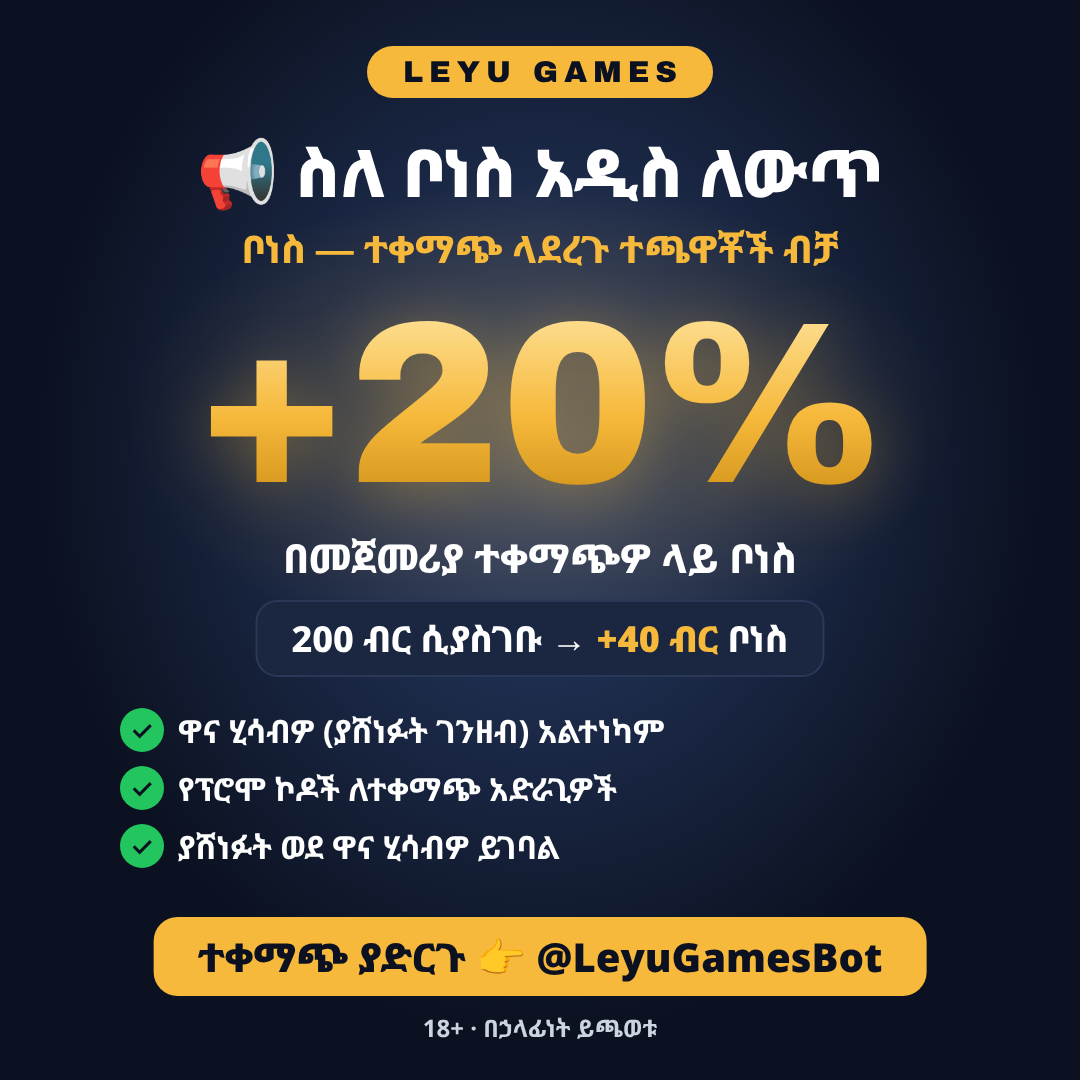
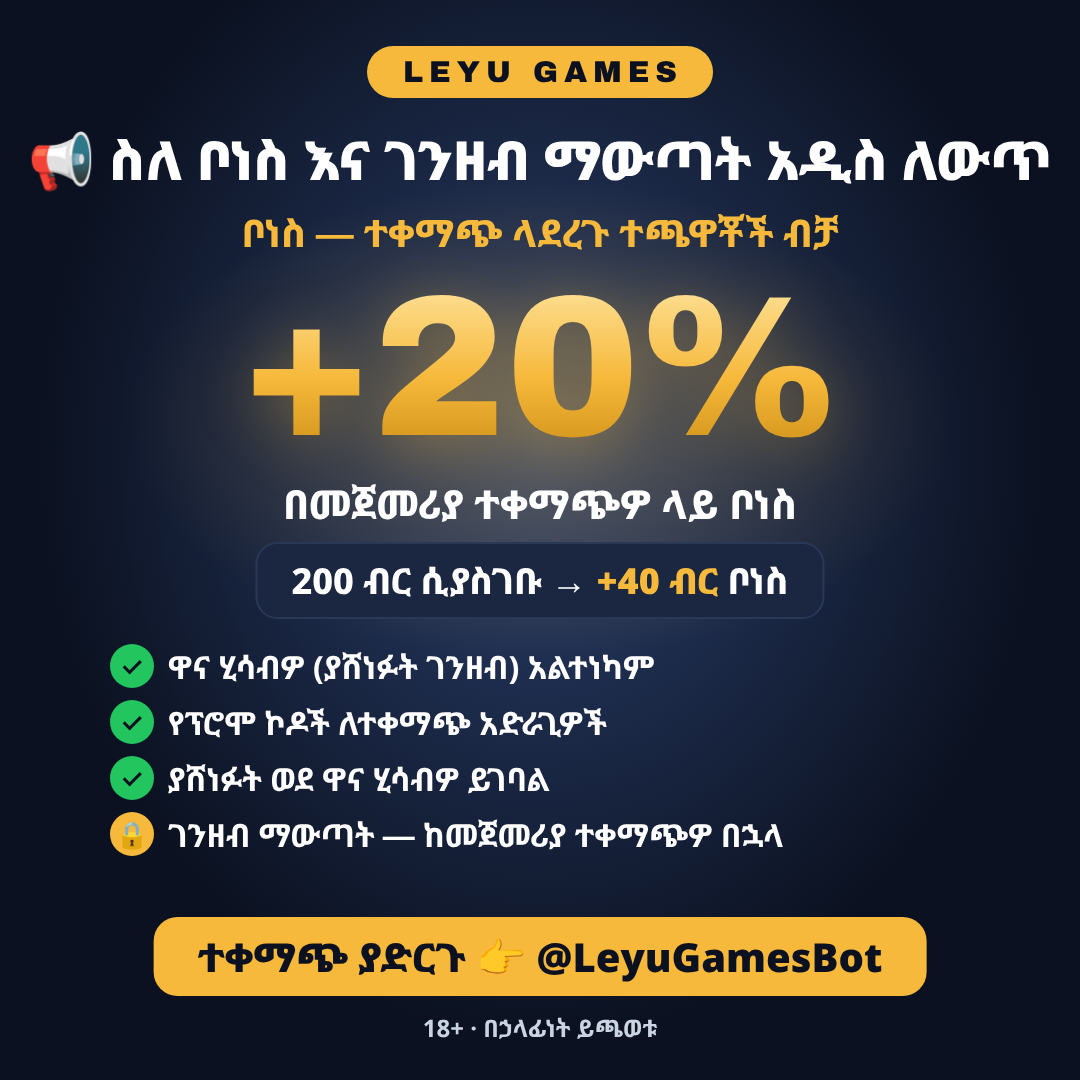
Bonus rule image: add the withdrawal rule
Claude-Session: https://claude.ai/code/session_01Nu2BzcyXdDo5pV38RCPQCQ

Changed region(s): [[0.1833, 0.275, 0.825, 0.55], [0.0917, 0.5806, 0.7333, 0.825], [0.0306, 0.1222, 0.9778, 0.2444]]

diff --git a/brand/promo/bonus-rule.html b/brand/promo/bonus-rule.html
@@ -6,13 +6,13 @@
 body{width:1080px;height:1080px;overflow:hidden;font-family:Ethi,sans-serif;color:#fff;position:relative;text-align:center;background:radial-gradient(ellipse at 50% 42%,#2a3f6b 0,#0b1120 66%)}
 .glow{position:absolute;left:50%;top:420px;width:900px;height:520px;transform:translate(-50%,-50%);background:radial-gradient(ellipse,#f6b93b44,transparent 65%)}
 .brand{position:absolute;top:46px;left:50%;transform:translateX(-50%);background:#f6b93b;color:#0b1120;font-family:Archivo;font-size:30px;letter-spacing:6px;padding:10px 30px 10px 36px;border-radius:40px}
-.title{position:absolute;top:126px;left:0;right:0;font-size:66px;font-weight:900}
-.sub{position:absolute;top:222px;left:0;right:0;font-size:38px;font-weight:800;color:#f6b93b}
-.big{position:absolute;top:290px;left:0;right:0;font-family:Archivo;font-size:230px;line-height:1;background:linear-gradient(#ffe7a6,#f6b93b 55%,#c98a12);-webkit-background-clip:text;color:transparent;filter:drop-shadow(0 8px 30px #f6b93b55)}
-.bigl{position:absolute;top:530px;left:0;right:0;font-size:40px;font-weight:800}
-.ex{position:absolute;top:600px;left:50%;transform:translateX(-50%);white-space:nowrap;background:#1b2740;border:2px solid #2a3858;border-radius:22px;padding:12px 34px;font-size:36px;font-weight:800}
+.title{position:absolute;top:122px;left:0;right:0;font-size:54px;font-weight:900}
+.sub{position:absolute;top:206px;left:0;right:0;font-size:38px;font-weight:800;color:#f6b93b}
+.big{position:absolute;top:268px;left:0;right:0;font-family:Archivo;font-size:200px;line-height:1;background:linear-gradient(#ffe7a6,#f6b93b 55%,#c98a12);-webkit-background-clip:text;color:transparent;filter:drop-shadow(0 8px 30px #f6b93b55)}
+.bigl{position:absolute;top:476px;left:0;right:0;font-size:40px;font-weight:800}
+.ex{position:absolute;top:542px;left:50%;transform:translateX(-50%);white-space:nowrap;background:#1b2740;border:2px solid #2a3858;border-radius:22px;padding:12px 34px;font-size:36px;font-weight:800}
 .ex b{color:#f6b93b}
-.list{position:absolute;top:708px;left:120px;right:120px;display:flex;flex-direction:column;gap:14px;text-align:left}
+.list{position:absolute;top:644px;left:110px;right:110px;display:flex;flex-direction:column;gap:12px;text-align:left}
 .list div{font-size:32px;font-weight:700;display:flex;gap:14px;align-items:center}
 .list i{font-style:normal;flex:none;width:44px;height:44px;border-radius:50%;background:#22c55e;color:#0b1120;display:flex;align-items:center;justify-content:center;font-size:26px;font-weight:900}
 .cta{position:absolute;bottom:84px;left:50%;transform:translateX(-50%);white-space:nowrap;background:#f6b93b;color:#0b1120;font-size:40px;font-weight:900;border-radius:24px;padding:12px 44px}
@@ -20,7 +20,7 @@ body{width:1080px;height:1080px;overflow:hidden;font-family:Ethi,sans-serif;colo
 </style></head><body>
 <div class="glow"></div>
 <div class="brand">LEYU GAMES</div>
-<div class="title">📢 ስለ ቦነስ አዲስ ለውጥ</div>
+<div class="title">📢 ስለ ቦነስ እና ገንዘብ ማውጣት አዲስ ለውጥ</div>
 <div class="sub">ቦነስ — ተቀማጭ ላደረጉ ተጫዋቾች ብቻ</div>
 <div class="big">+20%</div>
 <div class="bigl">በመጀመሪያ ተቀማጭዎ ላይ ቦነስ</div>
@@ -29,6 +29,7 @@ body{width:1080px;height:1080px;overflow:hidden;font-family:Ethi,sans-serif;colo
   <div><i>✓</i>ዋና ሂሳብዎ (ያሸነፉት ገንዘብ) አልተነካም</div>
   <div><i>✓</i>የፕሮሞ ኮዶች ለተቀማጭ አድራጊዎች</div>
   <div><i>✓</i>ያሸነፉት ወደ ዋና ሂሳብዎ ይገባል</div>
+  <div><i style="background:#f6b93b">🔒</i>ገንዘብ ማውጣት — ከመጀመሪያ ተቀማጭዎ በኋላ</div>
 </div>
 <div class="cta">ተቀማጭ ያድርጉ 👉 @LeyuGamesBot</div>
 <div class="small">18+ · በኃላፊነት ይጫወቱ</div>
